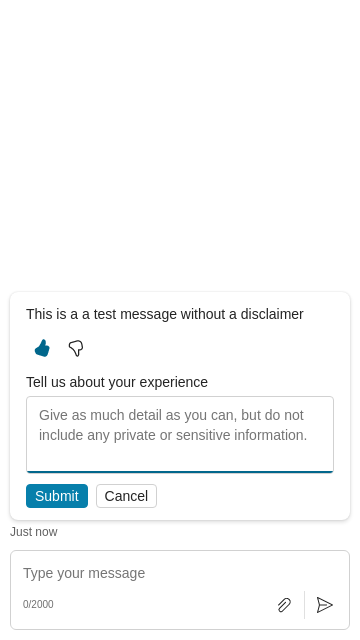
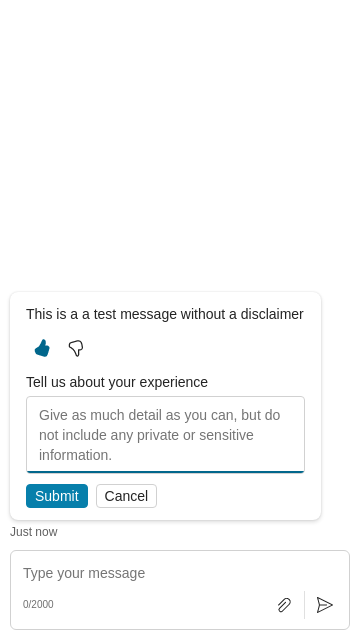
Feedback form aria-label computed value does not match on screen text (#5567)
* add aria label to feedback form send box

* add changelog entry

* add eslint disables

* Update packages/component/src/Attachment/Text/private/Markdownable.tsx

* fix issues where textarea was repeating

* fix test

* fix duplication in narrator

* fix tests

* update changelog

---------

Changed region(s): [[0.1222, 0.6562, 0.5194, 0.7188], [0.55, 0.625, 0.8556, 0.6875], [0.825, 0.7188, 0.9167, 0.75]]

diff --git a/packages/component/src/ActivityFeedback/private/FeedbackForm.tsx b/packages/component/src/ActivityFeedback/private/FeedbackForm.tsx
@@ -1,7 +1,7 @@
 import { hooks } from 'botframework-webchat-api';
 import { useStyles } from '@msinternal/botframework-webchat-styles/react';
 import React, { memo, useCallback, useEffect, useRef, useState, type FormEventHandler } from 'react';
-
+import useUniqueId from '../../hooks/internal/useUniqueId';
 import Markdownable from '../../Attachment/Text/private/Markdownable';
 import testIds from '../../testIds';
 import { TextArea } from '../../TextArea';
@@ -15,6 +15,8 @@ const { useLocalizer } = hooks;
 function FeedbackForm() {
   const classNames = useStyles(styles);
   const { useFeedbackText, useSelectedAction } = useActivityFeedbackHooks();
+  const feedbackFormHeaderId = useUniqueId('feedback-form__form-header__id');
+  const disclaimerId = useUniqueId('feedback-form__form-footer__id');
 
   const [selectedAction] = useSelectedAction();
   const [hasFocus, setHasFocus] = useState(false);
@@ -42,9 +44,18 @@ function FeedbackForm() {
 
   return (
     <div className={classNames['feedback-form__form']}>
-      <span className={classNames['feedback-form__form-header']}>{localize('FEEDBACK_FORM_TITLE')}</span>
+      <span
+        className={classNames['feedback-form__form-header']}
+        // "id" is required for "aria-labelledby"
+        // eslint-disable-next-line react/forbid-dom-props
+        id={feedbackFormHeaderId}
+      >
+        {localize('FEEDBACK_FORM_TITLE')}
+      </span>
       <div className={classNames['feedback-form__text-box']}>
         <TextArea
+          aria-describedby={disclaimer ? disclaimerId : undefined}
+          aria-labelledby={feedbackFormHeaderId}
           className={classNames['feedback-form__text-area']}
           data-testid={testIds.feedbackSendBox}
           onInput={handleMessageChange}
@@ -54,7 +65,9 @@ function FeedbackForm() {
           value={userFeedback}
         />
       </div>
-      {disclaimer && <Markdownable className={classNames['feedback-form__form-footer']} text={disclaimer} />}
+      {disclaimer && (
+        <Markdownable className={classNames['feedback-form__form-footer']} id={disclaimerId} text={disclaimer} />
+      )}
       <div className={classNames['feedback-form__submission-button-bar']}>
         <button className={classNames['feedback-form__submit-button']} type="submit">
           {localize('FEEDBACK_FORM_SUBMIT_BUTTON_LABEL')}

diff --git a/packages/component/src/Attachment/Text/private/Markdownable.tsx b/packages/component/src/Attachment/Text/private/Markdownable.tsx
@@ -6,6 +6,7 @@ import { useRenderMarkdownAsHTML } from '../../../hooks';
 const markdownablePropsSchema = pipe(
   object({
     className: optional(string()),
+    id: optional(string()),
     text: string()
   }),
   readonly()
@@ -13,7 +14,7 @@ const markdownablePropsSchema = pipe(
 
 type MarkdownableProps = InferInput<typeof markdownablePropsSchema>;
 
-function Markdownable({ className, text }: MarkdownableProps) {
+function Markdownable({ className, id, text }: MarkdownableProps) {
   const renderMarkdownAsHTML = useRenderMarkdownAsHTML('message activity');
 
   const innerHTML = useMemo<Readonly<{ __html: string }> | undefined>(
@@ -22,10 +23,15 @@ function Markdownable({ className, text }: MarkdownableProps) {
   );
 
   return innerHTML ? (
-    // eslint-disable-next-line react/no-danger
-    <span className={className} dangerouslySetInnerHTML={innerHTML} />
+    // "id" is required for "aria-labelledby"
+    // eslint-disable-next-line react/forbid-dom-props, react/no-danger
+    <span className={className} dangerouslySetInnerHTML={innerHTML} id={id} />
   ) : (
-    <span className={className}>{text}</span>
+    // "id" is required for "aria-labelledby"
+    // eslint-disable-next-line react/forbid-dom-props
+    <span className={className} id={id}>
+      {text}
+    </span>
   );
 }
 

diff --git a/packages/component/src/TextArea/TextArea.tsx b/packages/component/src/TextArea/TextArea.tsx
@@ -18,7 +18,8 @@ const { useUIState } = hooks;
 const TextArea = forwardRef<
   HTMLTextAreaElement,
   Readonly<{
-    'aria-label'?: string | undefined;
+    'aria-describedby'?: string | undefined;
+    'aria-labelledby'?: string | undefined;
     className?: string | undefined;
     completion?: ReactNode | undefined;
     'data-testid'?: string | undefined;
@@ -80,11 +81,13 @@ const TextArea = forwardRef<
       ) : (
         <Fragment>
           <div className={cx(classNames['text-area-doppelganger'], classNames['text-area-shared'])}>
-            {props.completion ? props.completion : props.value || props.placeholder}{' '}
+            {props.completion ? props.completion : props.value}{' '}
           </div>
           <textarea
+            aria-describedby={props['aria-describedby']}
             aria-disabled={disabled}
-            aria-label={props['aria-label']}
+            aria-labelledby={props['aria-labelledby']}
+            aria-placeholder={props.placeholder}
             className={cx(classNames['text-area-input'], classNames['text-area-shared'])}
             data-testid={props['data-testid']}
             onCompositionEnd={handleCompositionEnd}

diff --git a/__tests__/html2/feedbackForm/feedback.form.activity.html b/__tests__/html2/feedbackForm/feedback.form.activity.html
@@ -81,6 +81,14 @@
           1000
         );
 
+        // Validate aria labelledby is present for feedback form and matching elements are present
+        const feedbackFormSendBox = pageElements.byTestId('feedback sendbox');
+        const ariaLabelledBy = feedbackFormSendBox.getAttribute('aria-labelledby');
+        expect(ariaLabelledBy).toContain('feedback-form__form-header__id');
+        const ariaDescribedBy = feedbackFormSendBox.getAttribute('aria-describedby');
+        expect(ariaDescribedBy).toContain('feedback-form__form-footer__id');
+        await pageObjects.verifyDOMIntegrity();
+
         // WHEN: The cancel button is clicked.
         await host.sendTab(2);
         await host.sendKeys('ENTER');

diff --git a/CHANGELOG.md b/CHANGELOG.md
@@ -98,7 +98,7 @@ Notes: web developers are advised to use [`~` (tilde range)](https://github.com/
 - Added support of [contentless activity in livestream](https://github.com/microsoft/BotFramework-WebChat/blob/main/docs/LIVESTREAMING.md#scenario-3-interim-activities-with-no-content), in PR [#5430](https://github.com/microsoft/BotFramework-WebChat/pull/5430), by [@compulim](https://github.com/compulim)
 - Added sliding dots typing indicator in Fluent theme, in PR [#5447](https://github.com/microsoft/BotFramework-WebChat/pull/5447) and PR [#5448](https://github.com/microsoft/BotFramework-WebChat/pull/5448), by [@compulim](https://github.com/compulim)
 - (Experimental) Add an ability to pass `completion` prop into Fluent send box and expose the component, in PR [#5466](https://github.com/microsoft/BotFramework-WebChat/pull/5466), by [@OEvgeny](https://github.com/OEvgeny)
-- Added feedback form for like/dislike button when `feedbackActionsPlacement` is `"activity-actions"`, in PR [#5460](https://github.com/microsoft/BotFramework-WebChat/pull/5460), PR [#5469](https://github.com/microsoft/BotFramework-WebChat/pull/5469), PR [5470](https://github.com/microsoft/BotFramework-WebChat/pull/5470) and PR [#5501](https://github.com/microsoft/BotFramework-WebChat/pull/5501) by [@lexi-taylor](https://github.com/lexi-taylor) and [@OEvgeny](https://github.com/OEvgeny)
+- Added feedback form for like/dislike button when `feedbackActionsPlacement` is `"activity-actions"`, in PR [#5460](https://github.com/microsoft/BotFramework-WebChat/pull/5460), PR [#5469](https://github.com/microsoft/BotFramework-WebChat/pull/5469), PR [5470](https://github.com/microsoft/BotFramework-WebChat/pull/5470), PR [#5501](https://github.com/microsoft/BotFramework-WebChat/pull/5501) by [@lexi-taylor](https://github.com/lexi-taylor), and [@OEvgeny](https://github.com/OEvgeny)
    - <kbd>ESCAPE</kbd> key should reset the feedback form, in PR [#5480](https://github.com/microsoft/BotFramework-WebChat/pull/5480), by [@compulim](https://github.com/compulim), in PR [#5493](https://github.com/microsoft/BotFramework-WebChat/pull/5493) by [@lexi-taylor](https://github.com/lexi-taylor)
 - Added multi-dimensional grouping, `styleOptions.groupActivitiesBy`, and `useGroupActivitiesByName` hook, in PR [#5471](https://github.com/microsoft/BotFramework-WebChat/pull/5471), by [@compulim](https://github.com/compulim)
    - Existing behavior will be kept and activities will be grouped by `sender` followed by `status`
@@ -299,6 +299,7 @@ Notes: web developers are advised to use [`~` (tilde range)](https://github.com/
 - Updated file-based import with `.js` extension and removed the file extension from build config, by [@compulim](https://github.com/compulim), in PR [#5516](https://github.com/microsoft/BotFramework-WebChat/pull/5516)
 - Fixed [#5518](https://github.com/microsoft/BotFramework-WebChat/issues/5518). Minimal bundled build should work properly, in PR [#5507](https://github.com/microsoft/BotFramework-WebChat/pull/5507), by [@compulim](https://github.com/compulim)
 - Fixed [#5520](https://github.com/microsoft/BotFramework-WebChat/issues/5520). Version information should be injected when installed via npm, in PR [#5521](https://github.com/microsoft/BotFramework-WebChat/pull/5521), by [@compulim](https://github.com/compulim)
+- Fixed aria-label only announcing placeholder in feedback form, in PR [#5567](https://github.com/microsoft/BotFramework-WebChat/pull/5567)
 - Fixed placing focus on the code block content, so it is possible to scroll code via keyboard, in PR [#5575](https://github.com/microsoft/BotFramework-WebChat/pull/5575), by [@OEvgeny](https://github.com/OEvgeny)
 
 ### Removed
